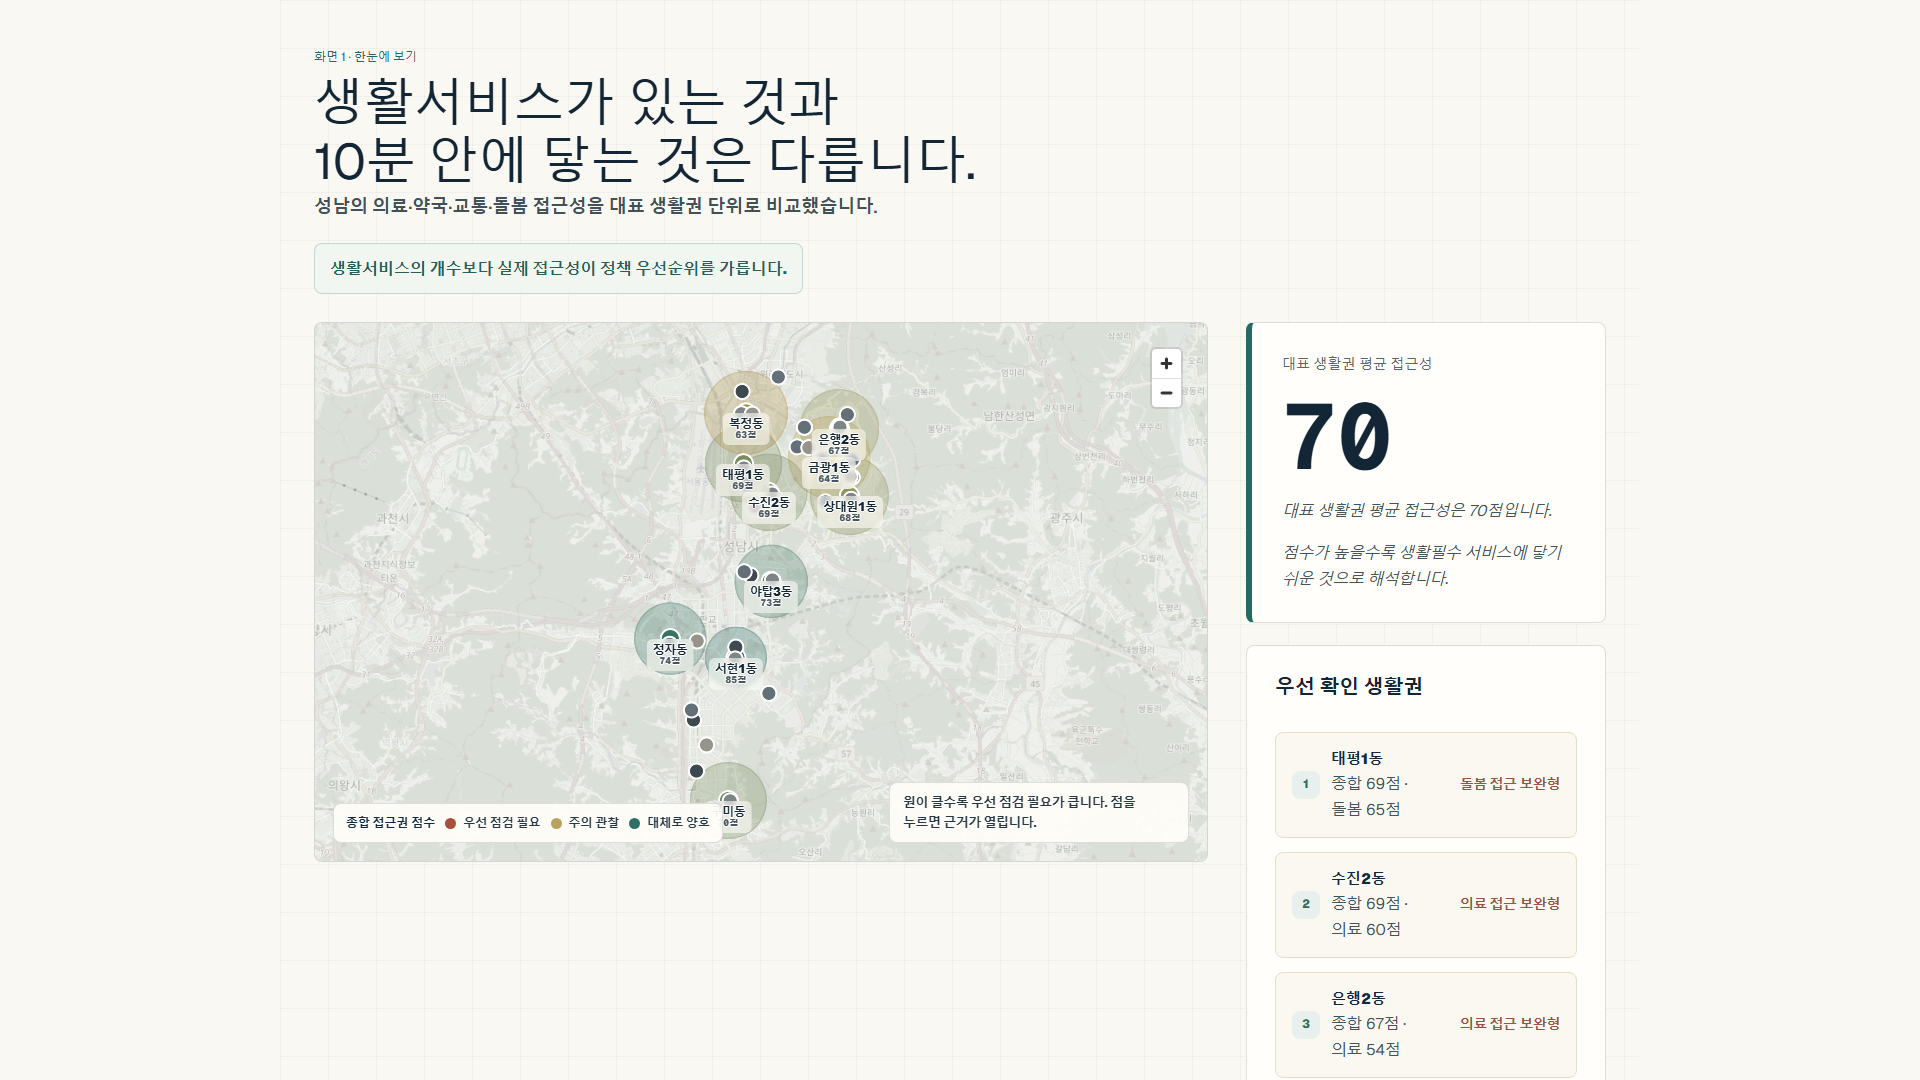
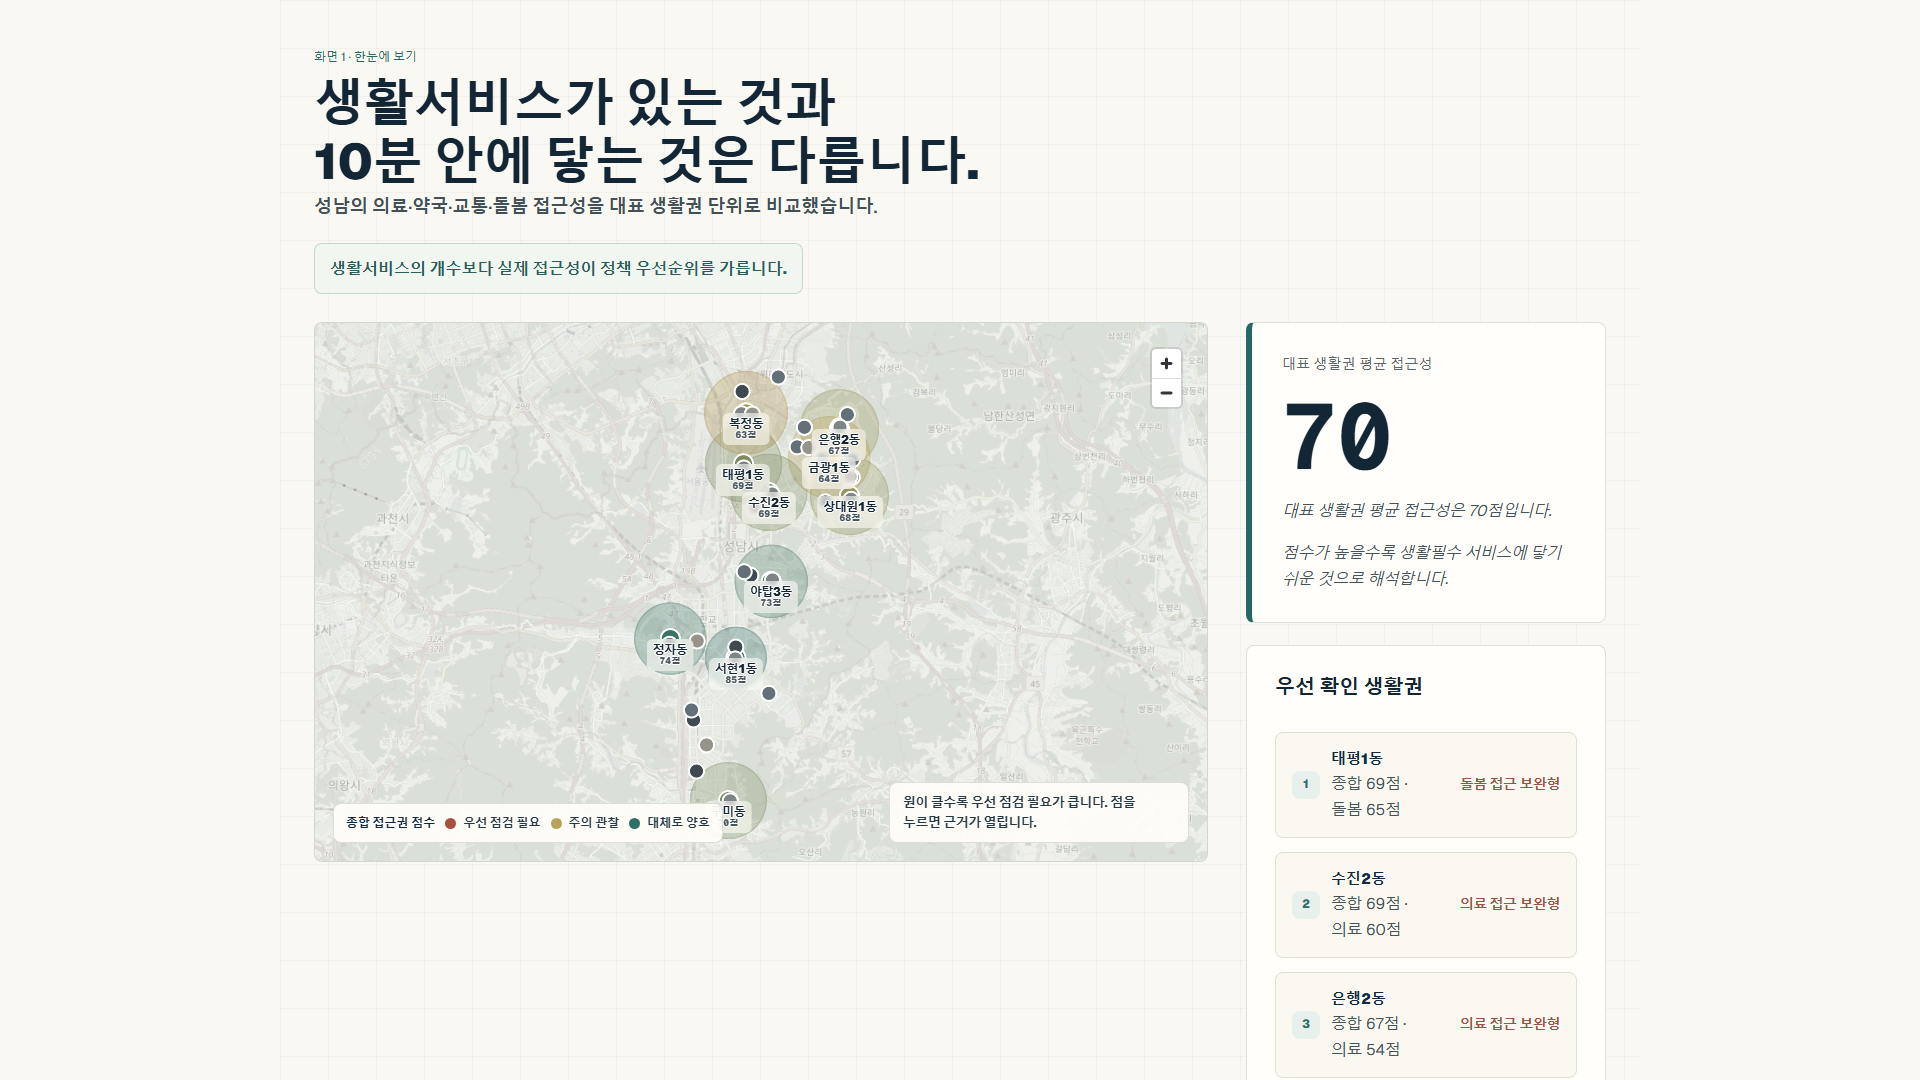
style: emphasize hero title weight

Changed region(s): [[0.1562, 0.0611, 0.5, 0.1833]]

diff --git a/src/app/globals.css b/src/app/globals.css
@@ -1532,6 +1532,7 @@ th {
 }
 
 .v2-page .v2-hero .v2-title {
+  font-weight: 860;
   line-height: 1.16;
 }
 